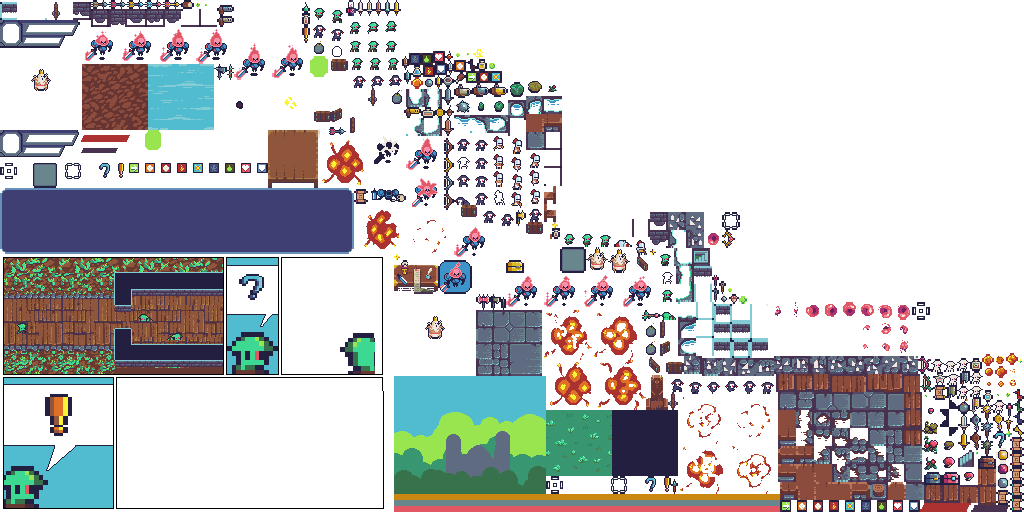
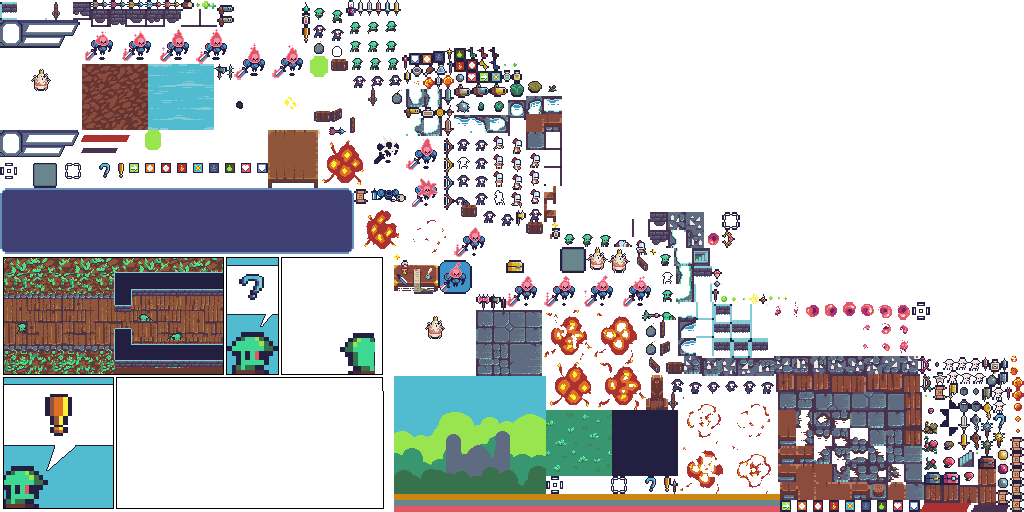
Door lock!

diff --git a/core/src/org/rexellentgames/dungeon/entity/level/entities/Door.java b/core/src/org/rexellentgames/dungeon/entity/level/entities/Door.java
@@ -4,7 +4,6 @@ import com.badlogic.gdx.physics.box2d.Body;
 import com.badlogic.gdx.physics.box2d.BodyDef;
 import com.badlogic.gdx.physics.box2d.MassData;
 import org.rexellentgames.dungeon.Dungeon;
-import org.rexellentgames.dungeon.assets.Graphics;
 import org.rexellentgames.dungeon.entity.Entity;
 import org.rexellentgames.dungeon.entity.creature.Creature;
 import org.rexellentgames.dungeon.entity.creature.mob.Mob;
@@ -17,6 +16,7 @@ import org.rexellentgames.dungeon.entity.level.rooms.regular.LampRoom;
 import org.rexellentgames.dungeon.entity.level.rooms.regular.ladder.ExitRoom;
 import org.rexellentgames.dungeon.util.Animation;
 import org.rexellentgames.dungeon.util.AnimationData;
+import org.rexellentgames.dungeon.util.Log;
 import org.rexellentgames.dungeon.util.file.FileReader;
 import org.rexellentgames.dungeon.util.file.FileWriter;
 
@@ -28,8 +28,14 @@ public class Door extends SaveableEntity {
 	public int numCollisions;
 	private static Animation vertAnimation = Animation.make("actor-door-vertical");
 	private static Animation horizAnimation = Animation.make("actor-door-horizontal");
+	private static Animation lockAnimation = Animation.make("door-lock");
 	private AnimationData animation;
+	private AnimationData locked = lockAnimation.get("idle");
+	private AnimationData unlock = lockAnimation.get("unlock");
+	private AnimationData lockAnim;
+
 	public boolean autoLock;
+	public boolean lockable;
 	public boolean lock;
 	public Room[] rooms = new Room[2];
 
@@ -59,20 +65,21 @@ public class Door extends SaveableEntity {
 	public void update(float dt) {
 		if (this.body == null) {
 			this.body = this.createBody(this.vertical ? 2 : 0, this.vertical ? -4 : 8, this.vertical ? 4 : 16,
-				this.vertical ? 20 : 4, BodyDef.BodyType.DynamicBody, !this.autoLock);
+				this.vertical ? 20 : 4, BodyDef.BodyType.DynamicBody, !(this.autoLock || this.lockable));
 			this.body.setTransform(this.x, this.y, 0);
 
-			if (this.autoLock) {
-				MassData data = new MassData();
-				data.mass = 10000000f;
-				this.body.setMassData(data);
+			MassData data = new MassData();
+			data.mass = 10000000f;
+			this.body.setMassData(data);
 
+			if (this.autoLock) {
 				this.animation.setPaused(false);
 			}
 		}
 
+		boolean last = this.lock;
+
 		if (this.autoLock) {
-			boolean last = this.lock;
 			this.lock = false;
 
 			for (int i = 0; i < 2; i++) {
@@ -93,14 +100,6 @@ public class Door extends SaveableEntity {
 					}
 				}
 			}
-
-			if (this.lock && !last) {
-				this.animation.setBack(true);
-				this.animation.setPaused(false);
-			} else if (!this.lock && last) {
-				this.animation.setBack(false);
-				this.animation.setPaused(false);
-			}
 		}
 
 		super.update(dt);
@@ -112,6 +111,31 @@ public class Door extends SaveableEntity {
 					this.animation.setPaused(false);
 				}
 			}
+		}
+
+		if (this.lockAnim != null) {
+			if (this.lockAnim.update(dt)) {
+				if (this.lockAnim == this.unlock) {
+					this.lock = false;
+					this.lockAnim = null;
+
+					Log.info("Door unlocked");
+				}
+			}
+		}
+
+		if (this.lock && this.lockAnim == null) {
+			this.lockAnim = this.locked;
+		}
+
+		if (this.lock && !last) {
+			this.lockAnim = this.locked; // todo: anim here too
+			this.animation.setBack(true);
+			this.animation.setPaused(false);
+		} else if (!this.lock && last) {
+			this.animation.setBack(false);
+			this.animation.setPaused(false);
+			this.lockAnim = this.unlock;
 		}
 	}
 
@@ -147,6 +171,10 @@ public class Door extends SaveableEntity {
 	@Override
 	public void render() {
 		this.animation.render(this.x, this.y, false);
+
+		if (this.lockAnim != null) {
+			this.lockAnim.render(this.x + (this.vertical ? 0 : 3), this.y, false);
+		}
 	}
 
 	@Override
@@ -165,6 +193,8 @@ public class Door extends SaveableEntity {
 		this.animation.setAutoPause(true);
 
 		this.autoLock = reader.readBoolean();
+		this.lock = reader.readBoolean();
+		this.lockable = reader.readBoolean();
 
 		if (this.autoLock) {
 			this.rooms[0] = Dungeon.level.getRooms().get(reader.readInt16());
@@ -178,6 +208,8 @@ public class Door extends SaveableEntity {
 
 		writer.writeBoolean(this.vertical);
 		writer.writeBoolean(this.autoLock);
+		writer.writeBoolean(this.lock);
+		writer.writeBoolean(this.lockable);
 
 		if (this.autoLock) {
 			writer.writeInt16((short) Dungeon.level.getRooms().indexOf(this.rooms[0]));

diff --git a/core/src/org/rexellentgames/dungeon/entity/level/rooms/regular/ladder/ExitRoom.java b/core/src/org/rexellentgames/dungeon/entity/level/rooms/regular/ladder/ExitRoom.java
@@ -26,7 +26,7 @@ public class ExitRoom extends RegularRoom {
 		Dungeon.area.add(exit);
 
 		for (Door door : this.connected.values()) {
-			door.setType(Door.Type.LEVEL_LOCKED);
+			door.setType(Dungeon.depth == 0 ? Door.Type.ENEMY : Door.Type.LEVEL_LOCKED);
 		}
 	}
 

diff --git a/core/src/org/rexellentgames/dungeon/entity/level/painters/Painter.java b/core/src/org/rexellentgames/dungeon/entity/level/painters/Painter.java
@@ -152,6 +152,7 @@ public class Painter {
 					door.lock = (d.getType() == Door.Type.LEVEL_LOCKED);
 					door.rooms[0] = r;
 					door.rooms[1] = n;
+					door.lockable = door.lock;
 
 					level.addSaveable(door);
 					Dungeon.area.add(door);
